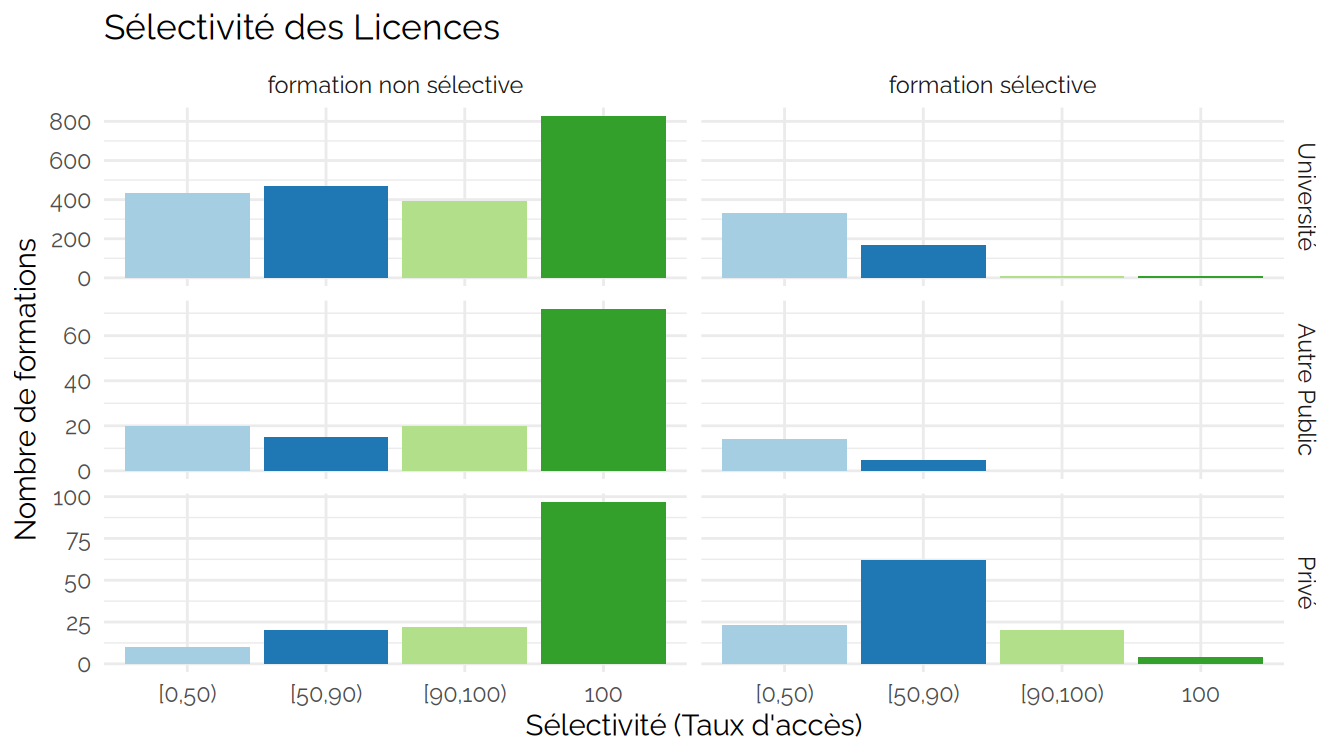
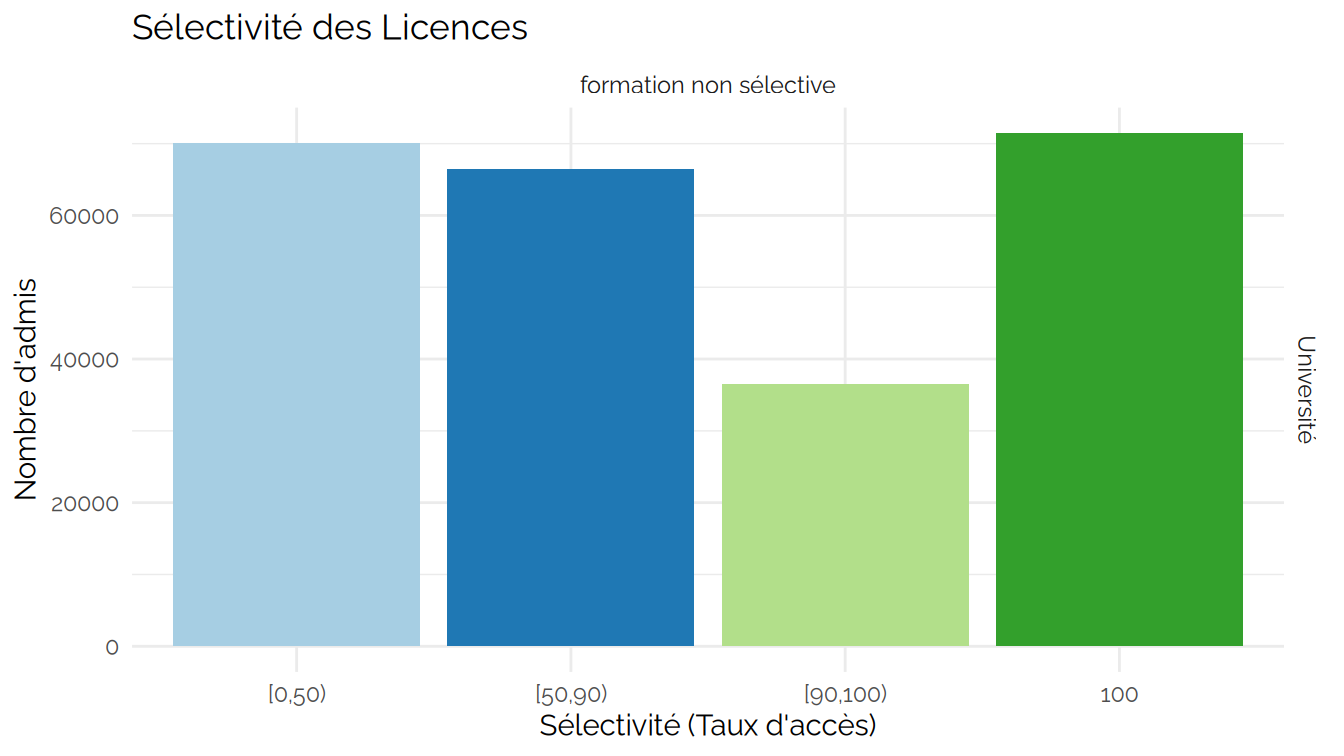
maj

diff --git a/parcoursup/Lselectives.md b/parcoursup/Lselectives.md
@@ -1,18 +1,260 @@
 CPESR
 ================
 CPESR
-2026-04-15
+2026-10-18
 
 ## Données
 
-- url source
+- <https://data.enseignementsup-recherche.gouv.fr/explore/assets/fr-esr-parcoursup/export/>
 
 ## Explorations
 
+<details>
+
+<summary>
+
+Données unnamed-chunk-1 ( 22 lignes)
+</summary>
+
+| Secteur | Sélectivité.officielle | Sélectivité.réelle | Nombre.formations | Nombre.admis | Part.formations | Part.admis |
+|:---|:---|:---|---:|---:|---:|---:|
+| Université | formation non sélective | \[0,50) | 434 | 70146 | 0.2039474 | 0.2868734 |
+| Université | formation non sélective | \[50,90) | 472 | 66407 | 0.2218045 | 0.2715822 |
+| Université | formation non sélective | \[90,100) | 393 | 36521 | 0.1846805 | 0.1493585 |
+| Université | formation non sélective | 100 | 829 | 71445 | 0.3895677 | 0.2921859 |
+| Université | formation sélective | \[0,50) | 334 | 11047 | 0.6435453 | 0.6778964 |
+| Université | formation sélective | \[50,90) | 166 | 4678 | 0.3198459 | 0.2870643 |
+| Université | formation sélective | \[90,100) | 12 | 252 | 0.0231214 | 0.0154639 |
+| Université | formation sélective | 100 | 7 | 319 | 0.0134875 | 0.0195754 |
+| Autre Public | formation non sélective | \[0,50) | 20 | 1662 | 0.1574803 | 0.2263688 |
+| Autre Public | formation non sélective | \[50,90) | 15 | 1946 | 0.1181102 | 0.2650504 |
+| Autre Public | formation non sélective | \[90,100) | 20 | 1199 | 0.1574803 | 0.1633070 |
+| Autre Public | formation non sélective | 100 | 72 | 2535 | 0.5669291 | 0.3452738 |
+| Autre Public | formation sélective | \[0,50) | 14 | 534 | 0.7368421 | 0.5798046 |
+| Autre Public | formation sélective | \[50,90) | 5 | 387 | 0.2631579 | 0.4201954 |
+| Privé | formation non sélective | \[0,50) | 10 | 629 | 0.0671141 | 0.0888167 |
+| Privé | formation non sélective | \[50,90) | 20 | 1484 | 0.1342282 | 0.2095453 |
+| Privé | formation non sélective | \[90,100) | 22 | 568 | 0.1476510 | 0.0802033 |
+| Privé | formation non sélective | 100 | 97 | 4401 | 0.6510067 | 0.6214346 |
+| Privé | formation sélective | \[0,50) | 23 | 1438 | 0.2110092 | 0.2405487 |
+| Privé | formation sélective | \[50,90) | 62 | 4057 | 0.5688073 | 0.6786551 |
+| Privé | formation sélective | \[90,100) | 20 | 435 | 0.1834862 | 0.0727668 |
+| Privé | formation sélective | 100 | 4 | 48 | 0.0366972 | 0.0080294 |
+
+</details>
+
 <img src="Lselectives_files/figure-gfm/unnamed-chunk-1-1.png" width="672" />
+
+<details>
+
+<summary>
+
+Données unnamed-chunk-2 ( 4 lignes)
+</summary>
+
+| Secteur | Sélectivité.officielle | Sélectivité.réelle | Nombre.formations | Nombre.admis | Part.formations | Part.admis |
+|:---|:---|:---|---:|---:|---:|---:|
+| Université | formation non sélective | \[0,50) | 434 | 70146 | 0.2039474 | 0.2868734 |
+| Université | formation non sélective | \[50,90) | 472 | 66407 | 0.2218045 | 0.2715822 |
+| Université | formation non sélective | \[90,100) | 393 | 36521 | 0.1846805 | 0.1493585 |
+| Université | formation non sélective | 100 | 829 | 71445 | 0.3895677 | 0.2921859 |
+
+</details>
 
 <img src="Lselectives_files/figure-gfm/unnamed-chunk-2-1.png" width="672" />
 
+<details>
+
+<summary>
+
+Données unnamed-chunk-3 ( 22 lignes)
+</summary>
+
+| Secteur | Sélectivité.officielle | Sélectivité.réelle | Nombre.formations | Nombre.admis | Part.formations | Part.admis |
+|:---|:---|:---|---:|---:|---:|---:|
+| Université | formation non sélective | \[0,50) | 434 | 70146 | 0.2039474 | 0.2868734 |
+| Université | formation non sélective | \[50,90) | 472 | 66407 | 0.2218045 | 0.2715822 |
+| Université | formation non sélective | \[90,100) | 393 | 36521 | 0.1846805 | 0.1493585 |
+| Université | formation non sélective | 100 | 829 | 71445 | 0.3895677 | 0.2921859 |
+| Université | formation sélective | \[0,50) | 334 | 11047 | 0.6435453 | 0.6778964 |
+| Université | formation sélective | \[50,90) | 166 | 4678 | 0.3198459 | 0.2870643 |
+| Université | formation sélective | \[90,100) | 12 | 252 | 0.0231214 | 0.0154639 |
+| Université | formation sélective | 100 | 7 | 319 | 0.0134875 | 0.0195754 |
+| Autre Public | formation non sélective | \[0,50) | 20 | 1662 | 0.1574803 | 0.2263688 |
+| Autre Public | formation non sélective | \[50,90) | 15 | 1946 | 0.1181102 | 0.2650504 |
+| Autre Public | formation non sélective | \[90,100) | 20 | 1199 | 0.1574803 | 0.1633070 |
+| Autre Public | formation non sélective | 100 | 72 | 2535 | 0.5669291 | 0.3452738 |
+| Autre Public | formation sélective | \[0,50) | 14 | 534 | 0.7368421 | 0.5798046 |
+| Autre Public | formation sélective | \[50,90) | 5 | 387 | 0.2631579 | 0.4201954 |
+| Privé | formation non sélective | \[0,50) | 10 | 629 | 0.0671141 | 0.0888167 |
+| Privé | formation non sélective | \[50,90) | 20 | 1484 | 0.1342282 | 0.2095453 |
+| Privé | formation non sélective | \[90,100) | 22 | 568 | 0.1476510 | 0.0802033 |
+| Privé | formation non sélective | 100 | 97 | 4401 | 0.6510067 | 0.6214346 |
+| Privé | formation sélective | \[0,50) | 23 | 1438 | 0.2110092 | 0.2405487 |
+| Privé | formation sélective | \[50,90) | 62 | 4057 | 0.5688073 | 0.6786551 |
+| Privé | formation sélective | \[90,100) | 20 | 435 | 0.1834862 | 0.0727668 |
+| Privé | formation sélective | 100 | 4 | 48 | 0.0366972 | 0.0080294 |
+
+</details>
+
 <img src="Lselectives_files/figure-gfm/unnamed-chunk-3-1.png" width="672" />
 
+<details>
+
+<summary>
+
+Données unnamed-chunk-4 ( 88 lignes)
+</summary>
+
+| Secteur | Sélectivité.officielle | Sélectivité.réelle | Bac | Nombre.admis |
+|:---|:---|:---|:---|---:|
+| Université | formation non sélective | \[0,50) | Néo-Général | 48814 |
+| Université | formation non sélective | \[0,50) | Néo-Techno | 3411 |
+| Université | formation non sélective | \[0,50) | Néo-Pro | 1449 |
+| Université | formation non sélective | \[0,50) | Autre | 16472 |
+| Université | formation non sélective | \[50,90) | Néo-Général | 40173 |
+| Université | formation non sélective | \[50,90) | Néo-Techno | 4557 |
+| Université | formation non sélective | \[50,90) | Néo-Pro | 1563 |
+| Université | formation non sélective | \[50,90) | Autre | 20114 |
+| Université | formation non sélective | \[90,100) | Néo-Général | 14297 |
+| Université | formation non sélective | \[90,100) | Néo-Techno | 3038 |
+| Université | formation non sélective | \[90,100) | Néo-Pro | 1483 |
+| Université | formation non sélective | \[90,100) | Autre | 17703 |
+| Université | formation non sélective | 100 | Néo-Général | 28522 |
+| Université | formation non sélective | 100 | Néo-Techno | 5662 |
+| Université | formation non sélective | 100 | Néo-Pro | 3495 |
+| Université | formation non sélective | 100 | Autre | 33766 |
+| Université | formation sélective | \[0,50) | Néo-Général | 8203 |
+| Université | formation sélective | \[0,50) | Néo-Techno | 218 |
+| Université | formation sélective | \[0,50) | Néo-Pro | 48 |
+| Université | formation sélective | \[0,50) | Autre | 2578 |
+| Université | formation sélective | \[50,90) | Néo-Général | 2990 |
+| Université | formation sélective | \[50,90) | Néo-Techno | 153 |
+| Université | formation sélective | \[50,90) | Néo-Pro | 44 |
+| Université | formation sélective | \[50,90) | Autre | 1491 |
+| Université | formation sélective | \[90,100) | Néo-Général | 135 |
+| Université | formation sélective | \[90,100) | Néo-Techno | 10 |
+| Université | formation sélective | \[90,100) | Néo-Pro | 3 |
+| Université | formation sélective | \[90,100) | Autre | 104 |
+| Université | formation sélective | 100 | Néo-Général | 159 |
+| Université | formation sélective | 100 | Néo-Techno | 22 |
+| Université | formation sélective | 100 | Néo-Pro | 22 |
+| Université | formation sélective | 100 | Autre | 116 |
+| Autre Public | formation non sélective | \[0,50) | Néo-Général | 1295 |
+| Autre Public | formation non sélective | \[0,50) | Néo-Techno | 54 |
+| Autre Public | formation non sélective | \[0,50) | Néo-Pro | 15 |
+| Autre Public | formation non sélective | \[0,50) | Autre | 298 |
+| Autre Public | formation non sélective | \[50,90) | Néo-Général | 1136 |
+| Autre Public | formation non sélective | \[50,90) | Néo-Techno | 128 |
+| Autre Public | formation non sélective | \[50,90) | Néo-Pro | 38 |
+| Autre Public | formation non sélective | \[50,90) | Autre | 644 |
+| Autre Public | formation non sélective | \[90,100) | Néo-Général | 463 |
+| Autre Public | formation non sélective | \[90,100) | Néo-Techno | 151 |
+| Autre Public | formation non sélective | \[90,100) | Néo-Pro | 61 |
+| Autre Public | formation non sélective | \[90,100) | Autre | 524 |
+| Autre Public | formation non sélective | 100 | Néo-Général | 861 |
+| Autre Public | formation non sélective | 100 | Néo-Techno | 202 |
+| Autre Public | formation non sélective | 100 | Néo-Pro | 186 |
+| Autre Public | formation non sélective | 100 | Autre | 1286 |
+| Autre Public | formation sélective | \[0,50) | Néo-Général | 431 |
+| Autre Public | formation sélective | \[0,50) | Néo-Techno | 0 |
+| Autre Public | formation sélective | \[0,50) | Néo-Pro | 7 |
+| Autre Public | formation sélective | \[0,50) | Autre | 96 |
+| Autre Public | formation sélective | \[50,90) | Néo-Général | 202 |
+| Autre Public | formation sélective | \[50,90) | Néo-Techno | 1 |
+| Autre Public | formation sélective | \[50,90) | Néo-Pro | 2 |
+| Autre Public | formation sélective | \[50,90) | Autre | 182 |
+| Privé | formation non sélective | \[0,50) | Néo-Général | 535 |
+| Privé | formation non sélective | \[0,50) | Néo-Techno | 16 |
+| Privé | formation non sélective | \[0,50) | Néo-Pro | 5 |
+| Privé | formation non sélective | \[0,50) | Autre | 73 |
+| Privé | formation non sélective | \[50,90) | Néo-Général | 961 |
+| Privé | formation non sélective | \[50,90) | Néo-Techno | 103 |
+| Privé | formation non sélective | \[50,90) | Néo-Pro | 37 |
+| Privé | formation non sélective | \[50,90) | Autre | 383 |
+| Privé | formation non sélective | \[90,100) | Néo-Général | 321 |
+| Privé | formation non sélective | \[90,100) | Néo-Techno | 45 |
+| Privé | formation non sélective | \[90,100) | Néo-Pro | 12 |
+| Privé | formation non sélective | \[90,100) | Autre | 190 |
+| Privé | formation non sélective | 100 | Néo-Général | 2241 |
+| Privé | formation non sélective | 100 | Néo-Techno | 370 |
+| Privé | formation non sélective | 100 | Néo-Pro | 162 |
+| Privé | formation non sélective | 100 | Autre | 1628 |
+| Privé | formation sélective | \[0,50) | Néo-Général | 1146 |
+| Privé | formation sélective | \[0,50) | Néo-Techno | 33 |
+| Privé | formation sélective | \[0,50) | Néo-Pro | 5 |
+| Privé | formation sélective | \[0,50) | Autre | 254 |
+| Privé | formation sélective | \[50,90) | Néo-Général | 3154 |
+| Privé | formation sélective | \[50,90) | Néo-Techno | 184 |
+| Privé | formation sélective | \[50,90) | Néo-Pro | 27 |
+| Privé | formation sélective | \[50,90) | Autre | 692 |
+| Privé | formation sélective | \[90,100) | Néo-Général | 310 |
+| Privé | formation sélective | \[90,100) | Néo-Techno | 28 |
+| Privé | formation sélective | \[90,100) | Néo-Pro | 5 |
+| Privé | formation sélective | \[90,100) | Autre | 92 |
+| Privé | formation sélective | 100 | Néo-Général | 38 |
+| Privé | formation sélective | 100 | Néo-Techno | 2 |
+| Privé | formation sélective | 100 | Néo-Pro | 0 |
+| Privé | formation sélective | 100 | Autre | 8 |
+
+</details>
+
 <img src="Lselectives_files/figure-gfm/unnamed-chunk-4-1.png" width="672" />
+
+<details>
+
+<summary>
+
+Données unnamed-chunk-5 ( 44 lignes)
+</summary>
+
+| Secteur | Sélectivité.officielle | Sélectivité.réelle | Néobacheliers | Nombre.admis |
+|:---|:---|:---|:---|---:|
+| Université | formation non sélective | \[0,50) | Boursiers | 10526.94 |
+| Université | formation non sélective | \[0,50) | Non.boursiers | 43147.06 |
+| Université | formation non sélective | \[50,90) | Boursiers | 9986.46 |
+| Université | formation non sélective | \[50,90) | Non.boursiers | 36306.54 |
+| Université | formation non sélective | \[90,100) | Boursiers | 4715.77 |
+| Université | formation non sélective | \[90,100) | Non.boursiers | 14102.23 |
+| Université | formation non sélective | 100 | Boursiers | 9911.15 |
+| Université | formation non sélective | 100 | Non.boursiers | 27767.85 |
+| Université | formation sélective | \[0,50) | Boursiers | 1231.81 |
+| Université | formation sélective | \[0,50) | Non.boursiers | 7237.19 |
+| Université | formation sélective | \[50,90) | Boursiers | 528.08 |
+| Université | formation sélective | \[50,90) | Non.boursiers | 2658.92 |
+| Université | formation sélective | \[90,100) | Boursiers | 19.96 |
+| Université | formation sélective | \[90,100) | Non.boursiers | 128.04 |
+| Université | formation sélective | 100 | Boursiers | 58.07 |
+| Université | formation sélective | 100 | Non.boursiers | 144.93 |
+| Autre Public | formation non sélective | \[0,50) | Boursiers | 222.62 |
+| Autre Public | formation non sélective | \[0,50) | Non.boursiers | 1141.38 |
+| Autre Public | formation non sélective | \[50,90) | Boursiers | 279.87 |
+| Autre Public | formation non sélective | \[50,90) | Non.boursiers | 1022.13 |
+| Autre Public | formation non sélective | \[90,100) | Boursiers | 186.67 |
+| Autre Public | formation non sélective | \[90,100) | Non.boursiers | 488.33 |
+| Autre Public | formation non sélective | 100 | Boursiers | 344.72 |
+| Autre Public | formation non sélective | 100 | Non.boursiers | 904.28 |
+| Autre Public | formation sélective | \[0,50) | Boursiers | 54.67 |
+| Autre Public | formation sélective | \[0,50) | Non.boursiers | 383.33 |
+| Autre Public | formation sélective | \[50,90) | Boursiers | 34.66 |
+| Autre Public | formation sélective | \[50,90) | Non.boursiers | 170.34 |
+| Privé | formation non sélective | \[0,50) | Boursiers | 57.19 |
+| Privé | formation non sélective | \[0,50) | Non.boursiers | 498.81 |
+| Privé | formation non sélective | \[50,90) | Boursiers | 105.75 |
+| Privé | formation non sélective | \[50,90) | Non.boursiers | 995.25 |
+| Privé | formation non sélective | \[90,100) | Boursiers | 44.84 |
+| Privé | formation non sélective | \[90,100) | Non.boursiers | 333.16 |
+| Privé | formation non sélective | 100 | Boursiers | 347.17 |
+| Privé | formation non sélective | 100 | Non.boursiers | 2425.83 |
+| Privé | formation sélective | \[0,50) | Boursiers | 92.18 |
+| Privé | formation sélective | \[0,50) | Non.boursiers | 1091.82 |
+| Privé | formation sélective | \[50,90) | Boursiers | 220.66 |
+| Privé | formation sélective | \[50,90) | Non.boursiers | 3144.34 |
+| Privé | formation sélective | \[90,100) | Boursiers | 15.63 |
+| Privé | formation sélective | \[90,100) | Non.boursiers | 327.37 |
+| Privé | formation sélective | 100 | Boursiers | 3.04 |
+| Privé | formation sélective | 100 | Non.boursiers | 36.96 |
+
+</details>
+
+<img src="Lselectives_files/figure-gfm/unnamed-chunk-5-1.png" width="672" />
